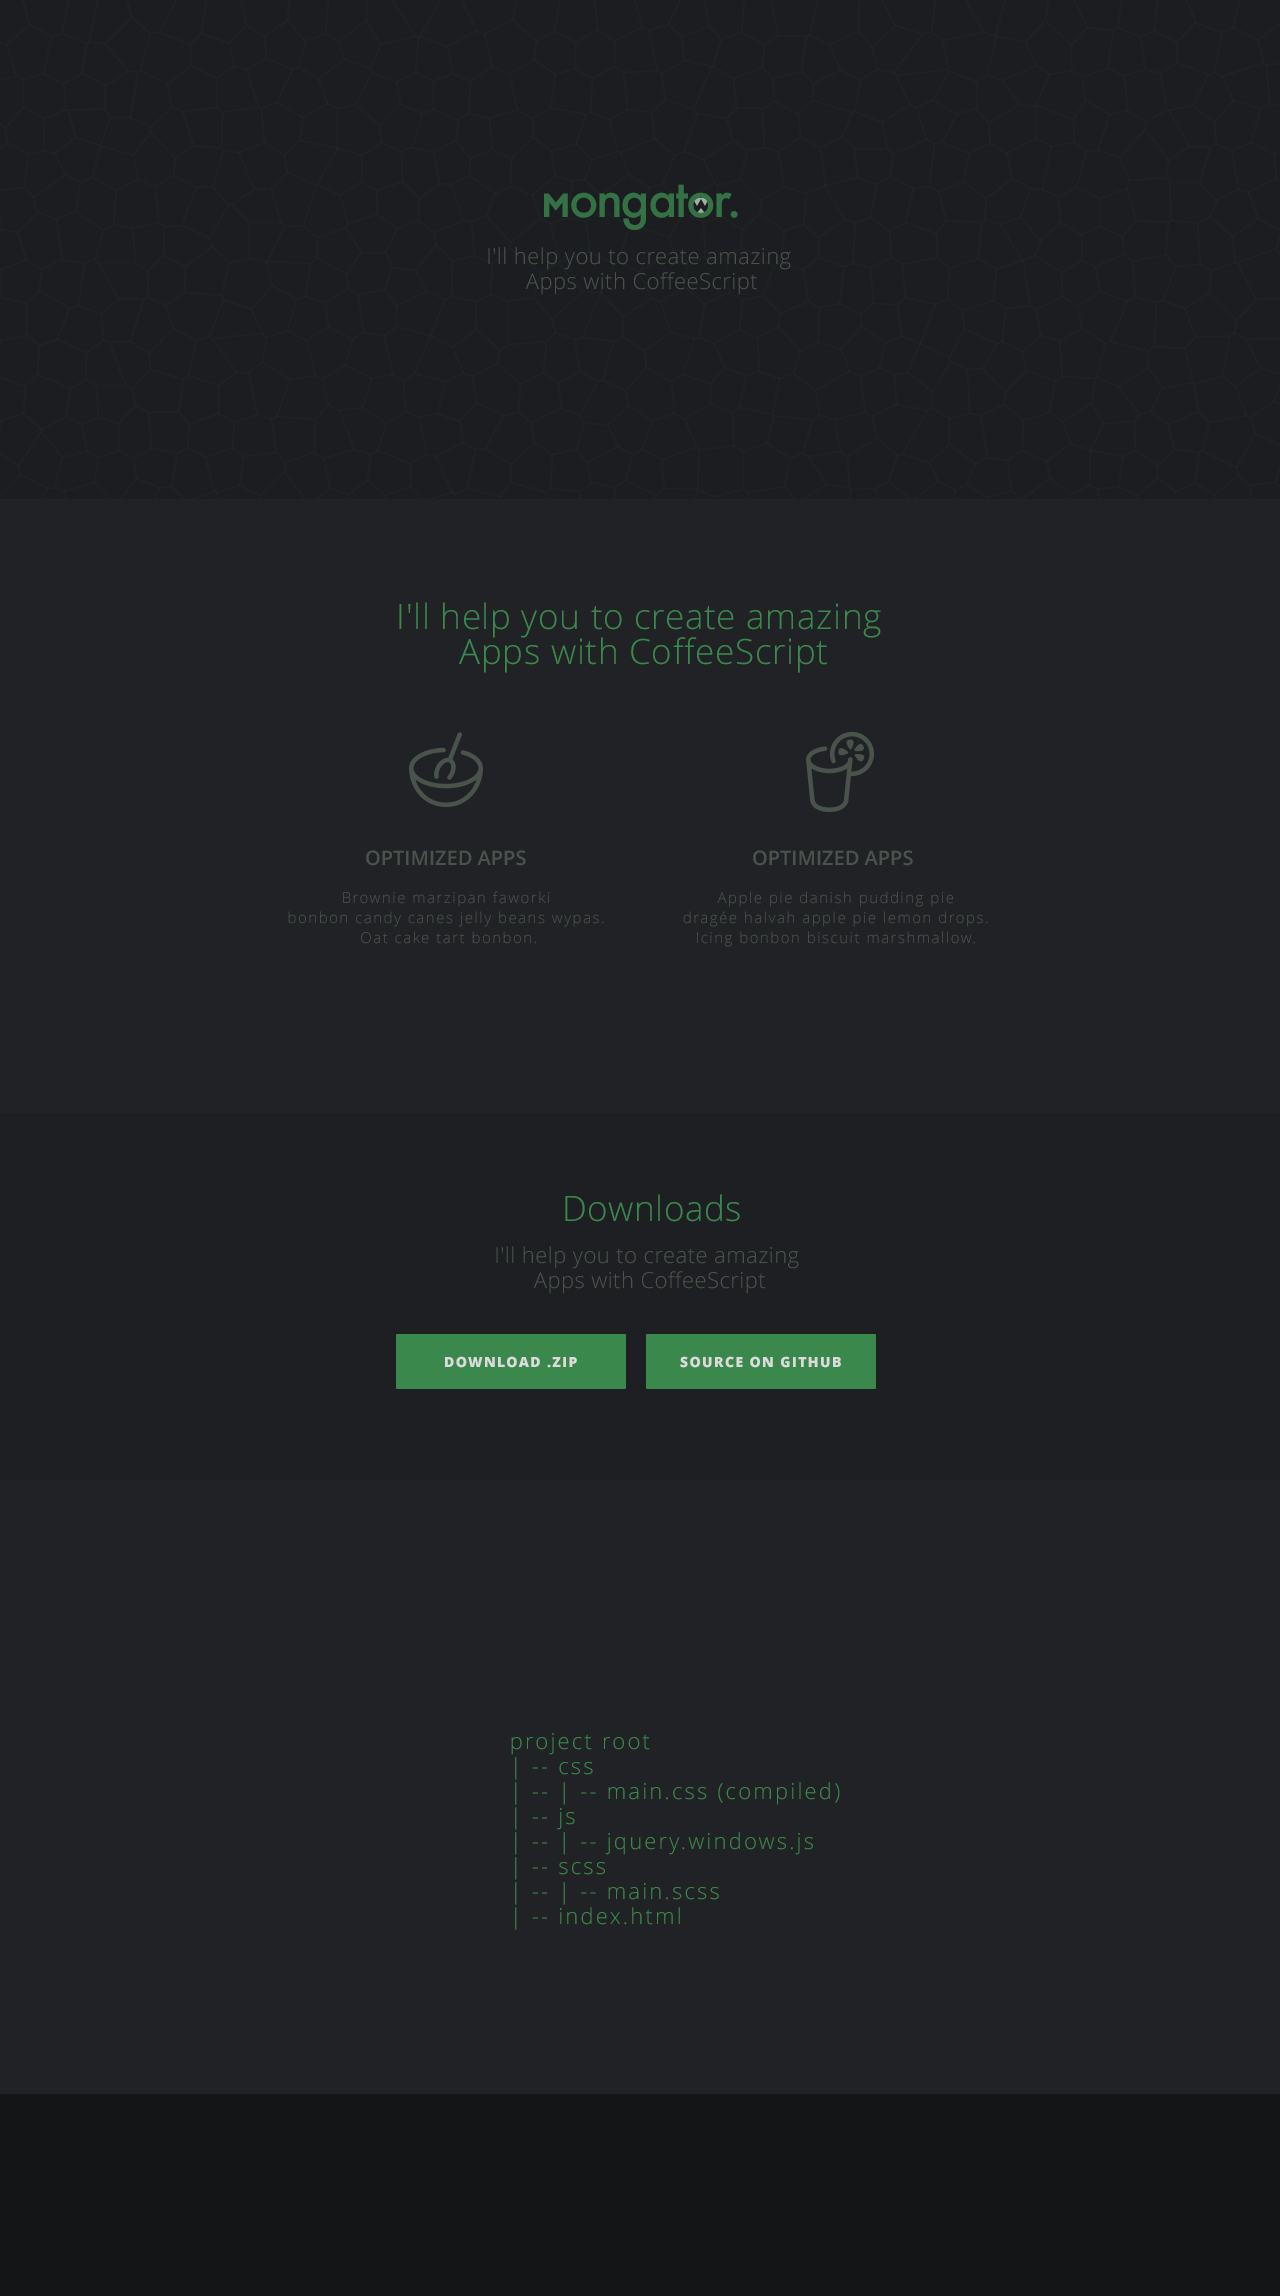
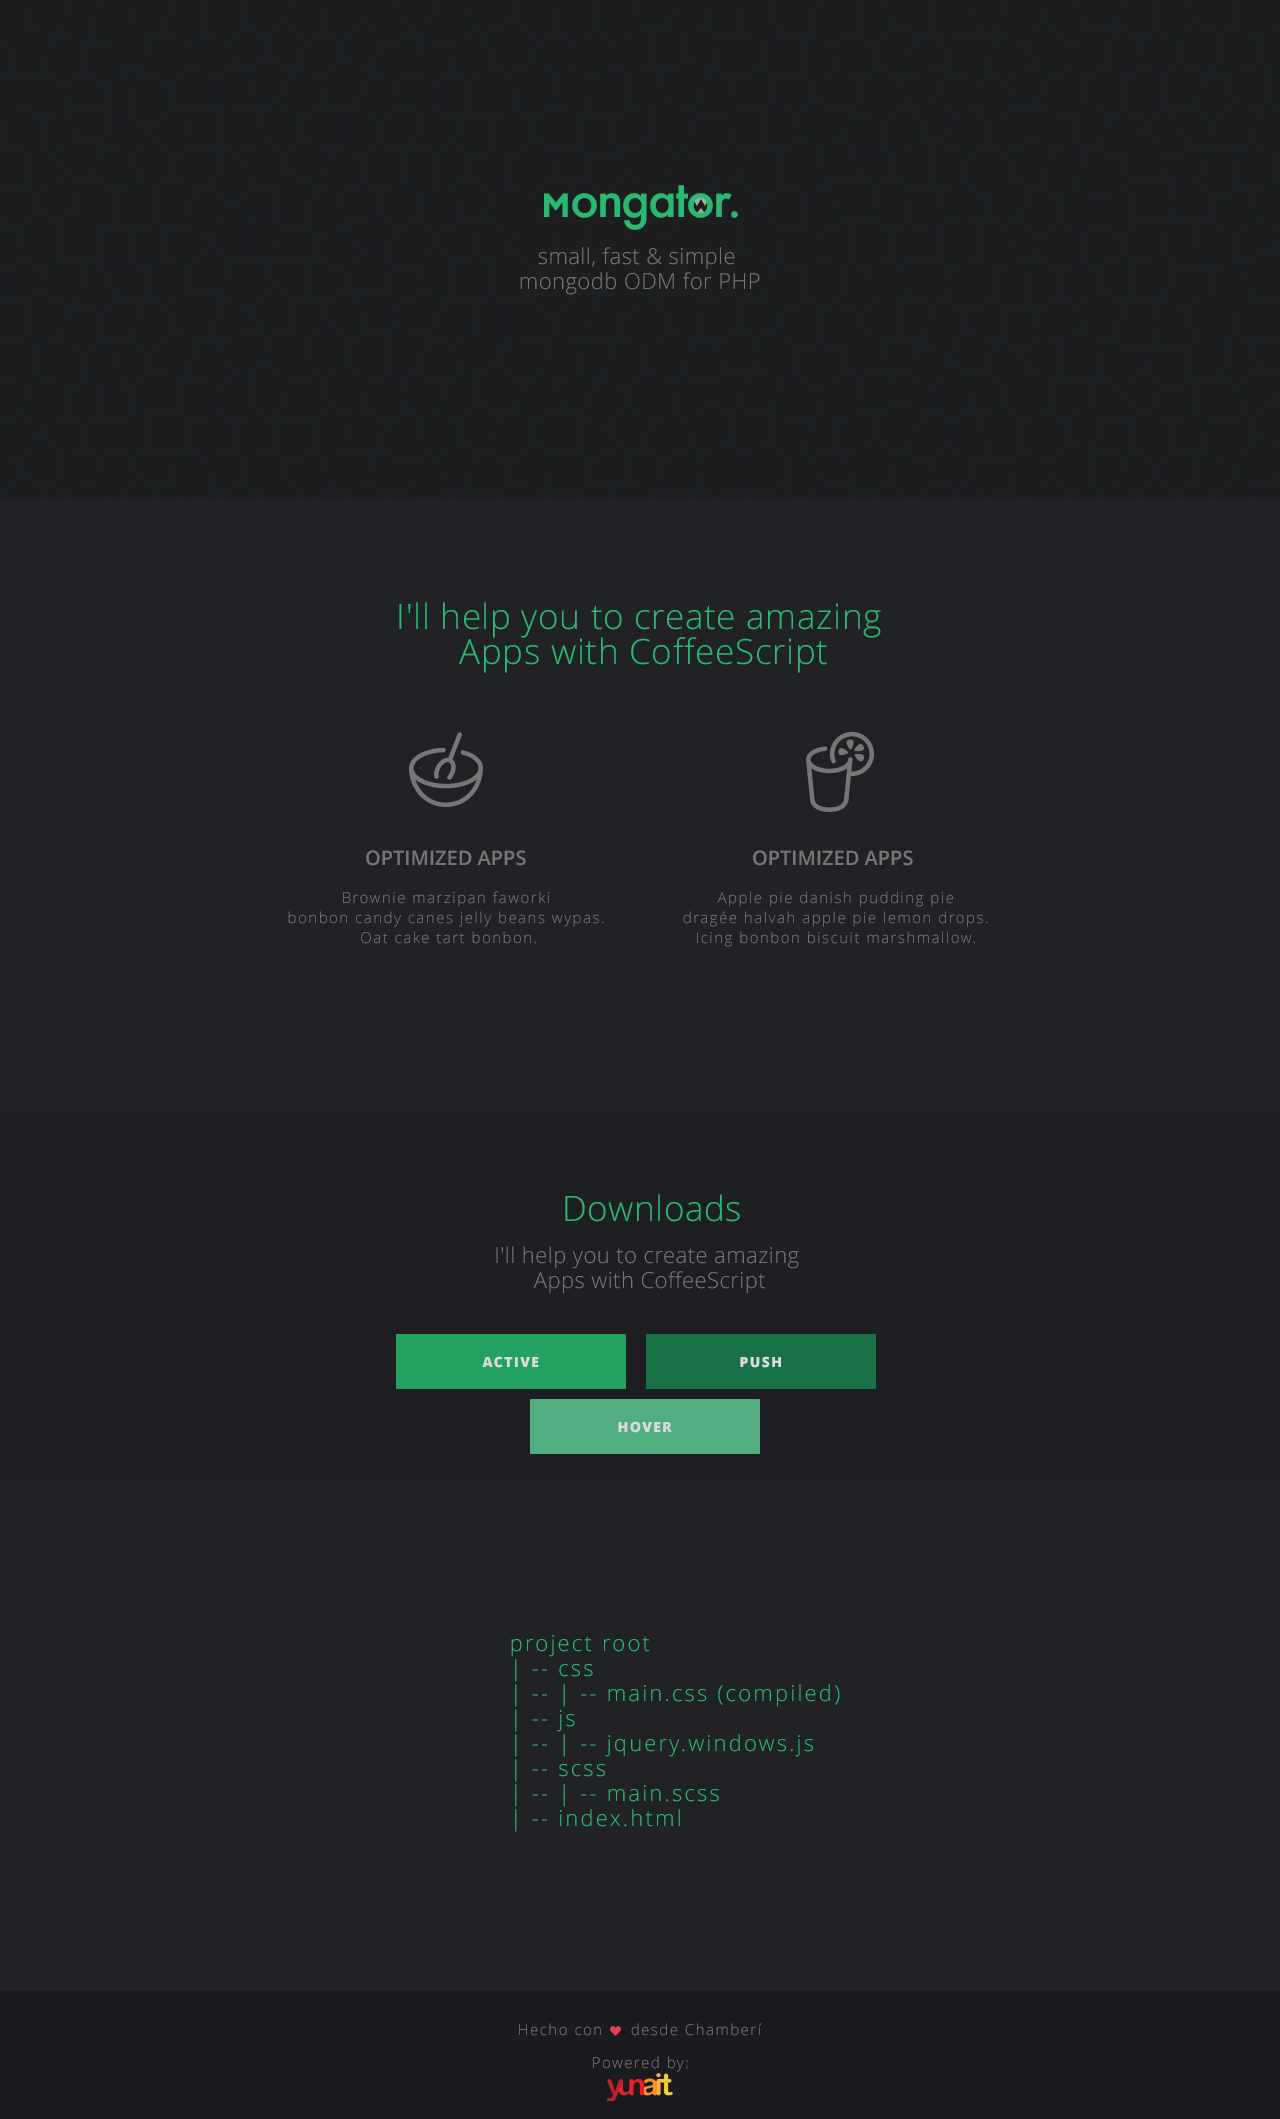
Añadido el footer

diff --git a/css/custom.css b/css/custom.css
@@ -42,7 +42,7 @@ html, body {
     height: 60px;
     margin-left: auto;
     margin-right: auto;
-    margin-top: 135px;
+    margin-top: 190px;
     width: 200px;
 }
 
@@ -51,7 +51,7 @@ width: 717px;
 }
 .row{
     width: auto;
-    height: 434px;
+    height: 504px;
     background: url(../img/background.png);
     background-repeat: no-repeat;
 
@@ -202,7 +202,7 @@ section h2{
 .btn-large2 {
     color: #FFFFFF;
     padding: 11px 19px;
-    background-color: #3B884D;
+    background-color: #197245;
     font-weight: 700;
     letter-spacing: 1px;
     font-size: 11px;
@@ -221,8 +221,23 @@ section h2{
 }
 
 .footer{
-    height: 164px;
+    height: 102px;
+    text-align: center;
+    padding-top: 17px;
+    letter-spacing: 1px;
 }
+.heart{
+    height: 10px;
+}
+.powered{
+  background: url(../img/medium_logo.png) no-repeat center 20px;
+  background-size: 103px;
+  background-position-y: 11px;
+  height: 100%;
+  padding-top: 7px;
+  padding-left: 2px;
+}
+
 
 .button{
     padding-top: 20px;
@@ -287,8 +302,8 @@ a{
     background: url("../img/foto1.png") no-repeat scroll 50% 0 transparent;
 }
     p {
-    margin: 0 0 10px;
-    padding-top: 16px;
+    margin: 0 0 11px;
+    padding-top: 12px;
     font-family: 'Open Sans',sans-serif; 
     font-size: 17px;
     color: #767676;
@@ -503,4 +518,21 @@ pre {
 .nav > li > a:hover, .nav > li > a:focus {
     text-decoration: none;
     background-color: none;
+}
+a:hover, a:focus {
+    background-color: #52ae7f;
+    text-decoration: none;
+}
+a:active {
+    background-color: #23a161;
+    text-decoration: none;
+}
+p.heart {
+margin: 0 0 11px;
+padding-top: 12px;
+font-family: 'Open Sans',sans-serif;
+font-size: 17px;
+color: #767676;
+padding-right: 86px;
+display: block;
 }

diff --git a/js/templates/home/default.html b/js/templates/home/default.html
@@ -39,12 +39,8 @@
    </section><!-- /.row4 -->
 
    <footer class="footer">
-      <div class="container">
-        <footer>
-            <p class="pull-right"><a href="#">Back to top</a></p>
-            <p>&copy; 2013 Company, Inc. &middot; <a href="#">Privacy</a> &middot; <a href="#">Terms</a></p>
-        </footer>
-    </div>
+      <p>Hecho con <span class="heart"><img src="../img/heart.png"></span> desde Chamber&iacute;</p>
+      <p class="powered">Powered by:</p>
 
    </footer>
 </div><!-- /.container -->

diff --git a/js/templates/page/default.html b/js/templates/page/default.html
@@ -22,7 +22,13 @@
         <div class="span9">
             <div data-ng-bind-html-unsafe="document" class="boxText"/>
         </div>
+    
     </div>
+     <footer class="footer">
+          <p>Hecho con <span class="heart"><img src="../img/heart.png"></span> desde Chamber&iacute;</p>
+          <p class="powered">Powered by:</p>
+
+         </footer>
 </div>
 
 
